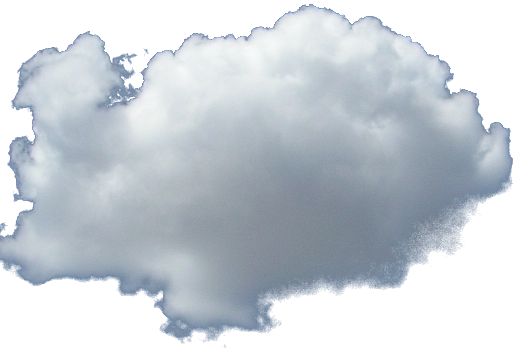
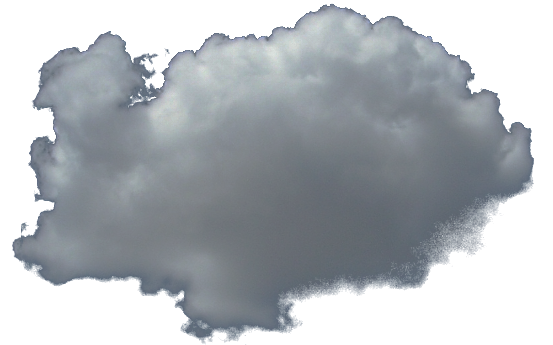
New Clouds!

diff --git a/static/css/global.css b/static/css/global.css
@@ -72,10 +72,10 @@ body {
         background-position: -50% 0;
     }
     10% {
-        opacity: 0.8;
+        opacity: 1;
     }
     90% {
-        opacity: 0.8;
+        opacity: 1;
     }
     100% {
         opacity: 0;
